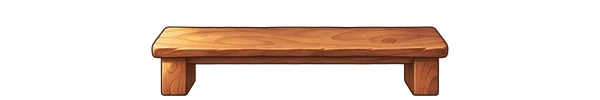
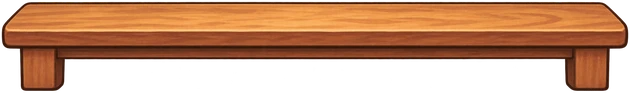
선반·흙판·가마 앞 돌바닥·시유 받침대 새 그림 적용, 선반 스킨 3종(소나무·흑단·대나무)과 천장 밧줄 그림
Claude-Session: https://claude.ai/code/session_01N5egMwhfWJrbthSxC5PLPG

diff --git a/pottery-web/Main.dc.html b/pottery-web/Main.dc.html
@@ -472,7 +472,7 @@ body:has([data-pano]) a[aria-label^="이야기 진행"]{display:none !important}
         
       </sc-if>
       </div>
-      <div aria-hidden="true" style="position:absolute;left:6px;top:650px;width:296px;height:20px;border-radius:7px;background:linear-gradient(#B98A5E,#8A5E3A);border:3px solid #5B3A24;box-shadow:0 6px 0 rgba(43,26,15,.35)"></div>
+      <img src="gfx/OBJ_CLAY_BOARD.webp" alt="" aria-hidden="true" draggable="false" style="position:absolute;left:4px;top:645px;width:300px;height:25px;pointer-events:none;filter:drop-shadow(0 4px 3px rgba(43,26,15,.3))">
       <div role="group" aria-label="흙판 · 흙을 골라 물레에 올려요" style="position:absolute;left:12px;top:596px;width:290px;height:100px;z-index:6">
         <sc-for list="{{lumps}}" as="lp" hint-placeholder-count="3"><div role="button" aria-label="{{lp.aria}}" onPointerDown="{{lp.down}}" style="{{lp.st}}"><img dc-src="{{lp.img}}" alt="" aria-hidden="true" draggable="false" style="width:52px;height:46px;object-fit:contain;pointer-events:none"></div><span style="{{lp.tagSt}}">{{lp.tag}}</span></sc-for>
       </div>
@@ -581,7 +581,7 @@ body:has([data-pano]) a[aria-label^="이야기 진행"]{display:none !important}
     </div>
     <div data-panel="2" data-drop="glaze" style="{{pst2}}">
       <sc-if value="{{pv2}}" hint-placeholder-val="{{true}}">
-<div data-gzstand="1" aria-hidden="true" style="position:absolute;left:0;top:0;width:390px;height:696px;pointer-events:none"><div aria-hidden="true" style="position:absolute;left:45px;top:561px;width:300px;height:26px;border-radius:50%;background:radial-gradient(closest-side,rgba(43,26,15,0.32),rgba(43,26,15,0));pointer-events:none"></div><img dc-src="{{standImg}}" alt="" draggable="false" style="position:absolute;left:62px;top:485px;width:266px;height:87px"><div aria-hidden="true" style="position:absolute;left:-4px;top:674px;width:208px;height:16px;border-radius:50%;background:radial-gradient(closest-side,rgba(43,26,15,0.26),rgba(43,26,15,0));pointer-events:none"></div><img src="gfx/OBJ_GLAZE_BENCH_c.webp" alt="" draggable="false" style="position:absolute;left:2px;top:618px;width:202px;height:62px"></div><div data-gzwrap="1" style="{{gzWrap}}"><div style="position:absolute;left:0.0px;top:-56.0px;width:390px;height:754px;transform:scale(1.0000);transform-origin:0 0">
+<div data-gzstand="1" aria-hidden="true" style="position:absolute;left:0;top:0;width:390px;height:696px;pointer-events:none"><div aria-hidden="true" style="position:absolute;left:45px;top:561px;width:300px;height:26px;border-radius:50%;background:radial-gradient(closest-side,rgba(43,26,15,0.32),rgba(43,26,15,0));pointer-events:none"></div><img dc-src="{{standImg}}" alt="" draggable="false" style="position:absolute;left:62px;top:485px;width:266px;height:87px"><div aria-hidden="true" style="position:absolute;left:-4px;top:674px;width:208px;height:16px;border-radius:50%;background:radial-gradient(closest-side,rgba(43,26,15,0.26),rgba(43,26,15,0));pointer-events:none"></div><img src="gfx/OBJ_GLAZE_BENCH.webp" alt="" draggable="false" style="position:absolute;left:-2px;top:632px;width:210px;height:31px"></div><div data-gzwrap="1" style="{{gzWrap}}"><div style="position:absolute;left:0.0px;top:-56.0px;width:390px;height:754px;transform:scale(1.0000);transform-origin:0 0">
 <div class="navdrop" data-zst="Glaze" style="position:absolute;left:0;top:0;width:390px;height:754px;overflow:hidden">
 <div class="bg-bg-glaze" style="position:relative;width:390px;height:844px;overflow:hidden;color:#2B1A0F">
   <div aria-hidden="true" data-area="1" style="position:absolute;left:104px;top:190px;width:182px;height:298px;box-sizing:border-box;border:2px dashed #6B4A2C;border-radius:16px;background:rgba(255,248,235,.16);pointer-events:none"></div>
@@ -851,7 +851,7 @@ body:has([data-pano]) a[aria-label^="이야기 진행"]{display:none !important}
     </div>
     <div data-panel="3" style="{{pst3}}">
       <sc-if value="{{pv3}}" hint-placeholder-val="{{true}}">
-<div aria-hidden="true" style="position:absolute;left:0;top:0;width:390px;height:696px;pointer-events:none"><div style="position:absolute;left:46px;top:516px;width:344px;height:40px;border-radius:50%;background:radial-gradient(closest-side,#9C8C78,#7E6E5C 70%,rgba(94,80,66,0));"></div><div aria-hidden="true" style="position:absolute;left:55px;top:532px;width:340px;height:28px;border-radius:50%;background:radial-gradient(closest-side,rgba(43,26,15,0.30),rgba(43,26,15,0));pointer-events:none"></div><div aria-hidden="true" style="position:absolute;left:-4px;top:632px;width:132px;height:20px;border-radius:50%;background:radial-gradient(closest-side,rgba(43,26,15,0.30),rgba(43,26,15,0));pointer-events:none"></div></div>      <img dc-src="{{kilnImg}}" alt="" aria-hidden="true" draggable="false" style="position:absolute;left:52px;top:84px;width:346px;height:457px;pointer-events:none;filter:drop-shadow(0 6px 3px rgba(43,26,15,.25))">
+<div aria-hidden="true" style="position:absolute;left:0;top:0;width:390px;height:696px;pointer-events:none"><img src="gfx/OBJ_KILN_APRON.webp" alt="" draggable="false" style="position:absolute;left:44px;top:524px;width:350px;height:26px"><div aria-hidden="true" style="position:absolute;left:55px;top:532px;width:340px;height:28px;border-radius:50%;background:radial-gradient(closest-side,rgba(43,26,15,0.30),rgba(43,26,15,0));pointer-events:none"></div><div aria-hidden="true" style="position:absolute;left:-4px;top:632px;width:132px;height:20px;border-radius:50%;background:radial-gradient(closest-side,rgba(43,26,15,0.30),rgba(43,26,15,0));pointer-events:none"></div></div>      <img dc-src="{{kilnImg}}" alt="" aria-hidden="true" draggable="false" style="position:absolute;left:52px;top:84px;width:346px;height:457px;pointer-events:none;filter:drop-shadow(0 6px 3px rgba(43,26,15,.25))">
       <div role="group" aria-label="가마 칸 6개 · {{kHead}}" style="position:absolute;left:84px;top:232px;width:282px;display:grid;grid-template-columns:repeat(3,84px);gap:26px 15px;z-index:4">
         <sc-for list="{{kilns}}" as="kn" hint-placeholder-count="9">
           <div data-kiln="{{kn.idx}}" data-kfree="{{kn.free}}" role="button" aria-label="{{kn.aria}}" onPointerDown="{{kn.down}}" style="{{kn.box}}">
@@ -1170,19 +1170,19 @@ body:has([data-pano]) a[aria-label^="이야기 진행"]{display:none !important}
     <div aria-hidden="true" data-rl="0" style="{{rl0}}"><div style="position:absolute;left:2px;top:6px;width:384px;height:6px;border-radius:3px;background:#3E2616;box-shadow:0 2px 0 rgba(255,244,222,.35)"></div><span style="position:absolute;left:0;top:0;width:8px;height:18px;border-radius:2px;background:#5B3A24"></span><span style="position:absolute;left:384px;top:0;width:8px;height:18px;border-radius:2px;background:#5B3A24"></span></div>
     <div aria-hidden="true" data-rl="1" style="{{rl1}}"><div style="position:absolute;left:2px;top:6px;width:384px;height:6px;border-radius:3px;background:#3E2616;box-shadow:0 2px 0 rgba(255,244,222,.35)"></div><span style="position:absolute;left:0;top:0;width:8px;height:18px;border-radius:2px;background:#5B3A24"></span><span style="position:absolute;left:384px;top:0;width:8px;height:18px;border-radius:2px;background:#5B3A24"></span></div>
     <div data-rail="rf" data-dz="{{rf.dz}}" style="{{rf.st}}">
-      <span aria-hidden="true" style="position:absolute;left:14px;top:-56px;width:3px;height:116px;background:repeating-linear-gradient(#A97B52 0 5px,#7A5434 5px 7px)"></span><span aria-hidden="true" style="position:absolute;right:14px;top:-56px;width:3px;height:116px;background:repeating-linear-gradient(#A97B52 0 5px,#7A5434 5px 7px)"></span>
+      <span aria-hidden="true" style="position:absolute;left:6px;top:-56px;width:5px;height:100px;background:{{rf.ropeBg}}"></span><span aria-hidden="true" style="position:absolute;left:367px;top:-56px;width:5px;height:100px;background:{{rf.ropeBg}}"></span>
       <div role="list" aria-label="{{rf.title}} 선반 {{rf.n}}" style="position:absolute;left:8px;right:8px;top:0;height:50px;display:flex;gap:12px;justify-content:center;align-items:flex-end;pointer-events:auto">
         <sc-for list="{{rf.items}}" as="si" hint-placeholder-count="2"><div role="listitem" data-q="{{si.id}}" onPointerDown="{{si.down}}" aria-label="{{si.aria}}" style="{{si.st}}"><svg width="38" height="44" viewBox="{{si.pot.vb}}" aria-hidden="true"><path d="{{si.pot.d}}" fill="{{si.pot.fill}}"></path><path d="{{si.pot.d}}" fill="{{si.pot.tex}}" opacity="{{si.pot.texOp}}" style="mix-blend-mode:soft-light"></path><path d="{{si.pot.d}}" fill="url(#potTopLight)"></path><path d="{{si.pot.d}}" fill="{{si.pot.rings}}"></path><path d="{{si.pot.d}}" fill="#000" filter="url(#potGrain)" opacity="{{si.pot.grainOp}}"></path><path d="{{si.pot.d}}" fill="url(#potShade)" opacity=".75"></path><path d="{{si.pot.d}}" fill="none" stroke="{{si.pot.edge}}" stroke-width="{{si.pot.sw}}"></path><path d="{{si.pot.b0}}" fill="none" stroke="{{si.pot.c0}}" stroke-width="{{si.pot.bw}}" stroke-linecap="round" stroke-linejoin="round"></path><path d="{{si.pot.b1}}" fill="none" stroke="{{si.pot.c1}}" stroke-width="{{si.pot.bw}}" stroke-linecap="round" stroke-linejoin="round"></path><path d="{{si.pot.b2}}" fill="none" stroke="{{si.pot.c2}}" stroke-width="{{si.pot.bw}}" stroke-linecap="round" stroke-linejoin="round"></path><ellipse cx="0" cy="{{si.pot.rimY}}" rx="{{si.pot.rimRx}}" ry="{{si.pot.rimRy}}" fill="{{si.pot.inner}}" stroke="{{si.pot.edge}}" stroke-width="{{si.pot.sw}}"></ellipse><path d="{{si.pot.rimD}}" fill="{{si.pot.inner}}" stroke="{{si.pot.edge}}" stroke-width="{{si.pot.sw}}" stroke-linejoin="round"></path></svg><span style="{{si.dot}}"></span><span style="{{si.kpSt}}">{{si.kp}}</span></div></sc-for>
       </div>
-      <div aria-hidden="true" style="position:absolute;left:0;right:0;top:48px;height:17px;border-radius:3px;background:{{rf.plank}};border-bottom:2px solid #5B3A24;box-shadow:0 4px 0 rgba(43,26,15,.3)"></div>
+      <img dc-src="{{rf.shImg}}" alt="" aria-hidden="true" draggable="false" style="position:absolute;left:0;top:43px;width:378px;height:35px;pointer-events:none;filter:drop-shadow(0 3px 2px rgba(43,26,15,.3))">
       <span style="{{rf.tagSt}}"><span style="padding:0 8px;border-radius:7px;background:rgba(43,26,15,.55)">{{rf.title}} {{rf.n}}</span></span>
     </div>
     <div data-rail="rg" data-dz="{{rg.dz}}" style="{{rg.st}}">
-      <span aria-hidden="true" style="position:absolute;left:14px;top:-122px;width:3px;height:182px;background:repeating-linear-gradient(#A97B52 0 5px,#7A5434 5px 7px)"></span><span aria-hidden="true" style="position:absolute;right:14px;top:-122px;width:3px;height:182px;background:repeating-linear-gradient(#A97B52 0 5px,#7A5434 5px 7px)"></span>
+      <span aria-hidden="true" style="position:absolute;left:6px;top:-122px;width:5px;height:166px;background:{{rg.ropeBg}}"></span><span aria-hidden="true" style="position:absolute;left:367px;top:-122px;width:5px;height:166px;background:{{rg.ropeBg}}"></span>
       <div role="list" aria-label="{{rg.title}} 선반 {{rg.n}}" style="position:absolute;left:8px;right:8px;top:0;height:50px;display:flex;gap:12px;justify-content:center;align-items:flex-end;pointer-events:auto">
         <sc-for list="{{rg.items}}" as="si" hint-placeholder-count="2"><div role="listitem" data-q="{{si.id}}" onPointerDown="{{si.down}}" aria-label="{{si.aria}}" style="{{si.st}}"><svg width="38" height="44" viewBox="{{si.pot.vb}}" aria-hidden="true"><path d="{{si.pot.d}}" fill="{{si.pot.fill}}"></path><path d="{{si.pot.d}}" fill="{{si.pot.tex}}" opacity="{{si.pot.texOp}}" style="mix-blend-mode:soft-light"></path><path d="{{si.pot.d}}" fill="url(#potTopLight)"></path><path d="{{si.pot.d}}" fill="{{si.pot.rings}}"></path><path d="{{si.pot.d}}" fill="#000" filter="url(#potGrain)" opacity="{{si.pot.grainOp}}"></path><path d="{{si.pot.d}}" fill="url(#potShade)" opacity=".75"></path><path d="{{si.pot.d}}" fill="none" stroke="{{si.pot.edge}}" stroke-width="{{si.pot.sw}}"></path><path d="{{si.pot.b0}}" fill="none" stroke="{{si.pot.c0}}" stroke-width="{{si.pot.bw}}" stroke-linecap="round" stroke-linejoin="round"></path><path d="{{si.pot.b1}}" fill="none" stroke="{{si.pot.c1}}" stroke-width="{{si.pot.bw}}" stroke-linecap="round" stroke-linejoin="round"></path><path d="{{si.pot.b2}}" fill="none" stroke="{{si.pot.c2}}" stroke-width="{{si.pot.bw}}" stroke-linecap="round" stroke-linejoin="round"></path><ellipse cx="0" cy="{{si.pot.rimY}}" rx="{{si.pot.rimRx}}" ry="{{si.pot.rimRy}}" fill="{{si.pot.inner}}" stroke="{{si.pot.edge}}" stroke-width="{{si.pot.sw}}"></ellipse><path d="{{si.pot.rimD}}" fill="{{si.pot.inner}}" stroke="{{si.pot.edge}}" stroke-width="{{si.pot.sw}}" stroke-linejoin="round"></path></svg><span style="{{si.dot}}"></span><span style="{{si.kpSt}}">{{si.kp}}</span></div></sc-for>
       </div>
-      <div aria-hidden="true" style="position:absolute;left:0;right:0;top:48px;height:17px;border-radius:3px;background:{{rg.plank}};border-bottom:2px solid #5B3A24;box-shadow:0 4px 0 rgba(43,26,15,.3)"></div>
+      <img dc-src="{{rg.shImg}}" alt="" aria-hidden="true" draggable="false" style="position:absolute;left:0;top:43px;width:378px;height:35px;pointer-events:none;filter:drop-shadow(0 3px 2px rgba(43,26,15,.3))">
       <span style="{{rg.tagSt}}"><span style="padding:0 8px;border-radius:7px;background:rgba(43,26,15,.55)">{{rg.title}} {{rg.n}}</span></span>
     </div>
    </div>
@@ -6632,6 +6632,7 @@ class Component extends DCLogic {
     var SK = function (pt, base, pre) { var id = DU[pt]; return id && id !== 'base' ? 'gfx/SKIN_' + pre + '_' + id + '.webp' : 'gfx/' + base + '.webp'; };
     v.kilnImg = SK('kiln', 'OBJ_KILN', 'KILN'); v.wheelSkin = DU.wheel || 'base'; v.benchImg = SK('wheel', 'OBJ_WORKBENCH', 'WORKBENCH'); v.standImg = SK('paint', 'OBJ_GLAZE_STAND', 'GLAZE_STAND');
     var PLANK = dShelf.id && dShelf.id !== 'base' ? 'linear-gradient(rgba(255,255,255,.18),rgba(0,0,0,.18)),' + dShelf.sw : 'linear-gradient(#A97B52,#7A5434)';
+    var SHID = dShelf.id && dShelf.id !== 'base' ? dShelf.id : 'base', SHIMG = SHID === 'base' ? 'gfx/OBJ_WALL_SHELF.webp' : 'gfx/SKIN_SHELF_' + SHID + '.webp', ROPEBG = 'url(' + 'gfx/ROPE_' + SHID + '.webp) 0 0/100% auto repeat-y'; /* 선반 그림 + 천장 밧줄(세로 반복) */
     var R = this.railPos(), CAP = this.KB().cap;
     function shelf(list, st, x, title, tot) { var LN = tot == null ? list.length : tot;
       var items = list.slice(0, CAP).map(function (it) {
@@ -6643,7 +6644,7 @@ class Component extends DCLogic {
           kp: it.kp >= 0.01 ? Math.round(it.kp * 100) + '%' : '', kpSt: it.kp >= 0.01 ? 'position:absolute;left:50%;bottom:-2px;transform:translateX(-50%);padding:0 4px;border-radius:6px;background:#C0582E;font-family:Jua,sans-serif;font-size:11px;line-height:14px;color:#FFF' : 'display:none',
           st: 'position:relative;flex:0 0 44px;height:50px;display:flex;align-items:flex-end;justify-content:center;cursor:grab;touch-action:none;user-select:none;-webkit-user-select:none' };
       });
-      return { items: items, n: LN + '/' + CAP, title: title, full: LN >= CAP, plank: PLANK,
+      return { items: items, n: LN + '/' + CAP, title: title, full: LN >= CAP, plank: PLANK, shImg: SHIMG, ropeBg: ROPEBG,
         st: 'position:absolute;left:' + x + 'px;top:' + (st === 'g' ? 56 : 122) + 'px;width:378px;height:66px;z-index:' + (st === 'g' ? 9 : 8) + ';pointer-events:none', /* 2층(위) 56 · 1층(아래) 122 · 천장에 줄로 매달림 */
         tagSt: 'position:absolute;left:0;right:0;top:49px;text-align:center;font-family:Jua,sans-serif;font-size:11px;line-height:15px;white-space:nowrap;pointer-events:none;color:' + (LN >= CAP ? '#FFE27A' : '#FFF4DE') + ';' };
     }
